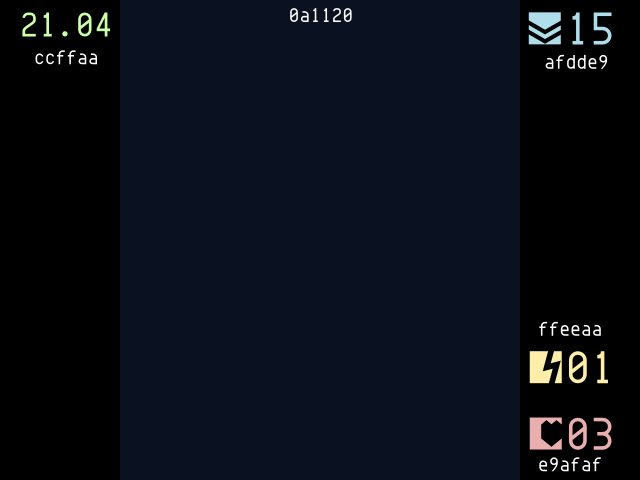
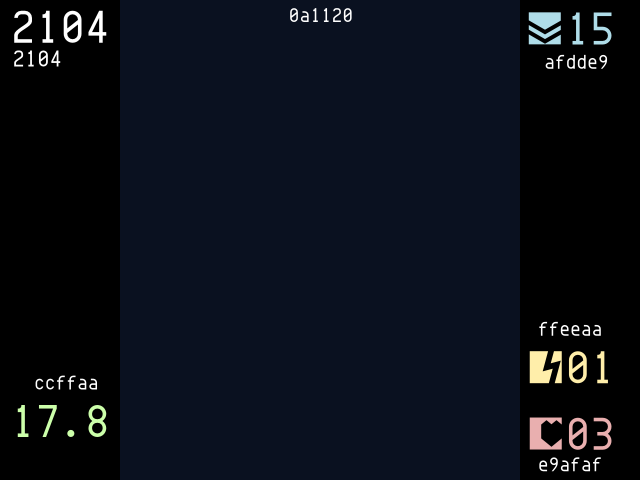
updating to 0.9

Changed region(s): [[0.0, 0.0, 0.1875, 0.1562], [0.0312, 0.8438, 0.1875, 0.9062], [0.0312, 0.7812, 0.1562, 0.8125]]

diff --git a/shutengu.cpp b/shutengu.cpp
@@ -5,9 +5,9 @@
 #include "SDL/SDL_ttf.h"
 #include <stdio.h>
 #include <stdlib.h>
+#include <time.h>
 #include <string>
 #include <sstream>
-#include <time.h>
 
 //screen attributes
 const int SCREEN_WIDTH=640;
@@ -27,9 +27,10 @@ SDL_Surface *background=NULL;
 SDL_Surface *boss=NULL;
 SDL_Surface *screen=NULL;
 SDL_Surface *menumsg=NULL;
+SDL_Surface *bullet=NULL;
 SDL_Surface *points=NULL;
 
-//the award-winning soundtrack
+//the award-winning soundtrawhile(SDL_PollEvent(&event)){ck
 Mix_Music *bgm=NULL;
 Mix_Chunk *gain=NULL;
 Mix_Chunk *bomb=NULL;
@@ -37,7 +38,8 @@ Mix_Chunk *bomb=NULL;
 //fonts and colours
 TTF_Font *menuFont=NULL;
 SDL_Color defaultColor={0,0,0};
-SDL_Color pointsColor={255,255,0};
+SDL_Color menubgColor={0xff,0xff,0xff};
+SDL_Color pointsColor={0xaf,0xdd,0xe9};
 
 //event handler
 SDL_Event event;
@@ -45,15 +47,23 @@ SDL_Event event;
 //lists ship properties
 class ship{
     private:
-		int x, y;			//position
 		int xVel, yVel;		//velocity
 
     public:
+		SDL_Rect hitbox;
 		ship();				//initializes
 		void handle_input();//handles keyboard controls for the ship
 		void move();		//handles motion
 		void show();		//renders ship
 };
+
+struct bulletData{
+	SDL_Rect hitbox;
+	int xVel;
+	int yVel;
+};
+
+bulletData b[5];
 
 //lists timer properties
 class Timer{
@@ -108,11 +118,15 @@ bool init(){
 
 //initializes most game assets
 bool prepAssets(){
+
+    int i;
+
     //load images or return false if error
     menu=IMG_Load("img/menu.png");
     theship=IMG_Load("img/gameship.png");
     background=IMG_Load("img/background.png");
     boss=IMG_Load("img/boss.png");
+    bullet=IMG_Load("img/bullet.png");
     if((menu==NULL)||(theship==NULL)||(background==NULL)||(boss==NULL)) return false;
 
 	//load audio or return false if error
@@ -122,8 +136,16 @@ bool prepAssets(){
 	if((bgm==NULL)||(gain==NULL)||(bomb==NULL)) return false;
 
 	//open fonts or return false if error
-	menuFont=TTF_OpenFont("envy.ttf",16);
+	menuFont=TTF_OpenFont("envy.ttf",24);
 	if((menuFont==NULL)) return false;
+
+    for (i=0;i<5;i++)
+    {
+        b[i].hitbox.x=rand()%420+120;
+		b[i].hitbox.h=5;
+		b[i].hitbox.w=5;
+		b[i].hitbox.y=0;
+    }
 
     //all is well
     return true;
@@ -138,7 +160,7 @@ void cleanUp(){
     SDL_FreeSurface(boss);
     SDL_FreeSurface(menumsg);
     SDL_FreeSurface(screen);
-    SDL_FreeSurface(points);
+    SDL_FreeSurface(bullet);
 
 	//free all audio
 	Mix_FreeMusic(bgm);
@@ -179,10 +201,54 @@ bool newBGM(){
 	return true;
 }
 
+//checks collision
+bool isCol(SDL_Rect rectA,SDL_Rect rectB){
+	int leftA, leftB;
+    int rightA, rightB;
+    int topA, topB;
+    int bottomA, bottomB;
+
+    leftA=rectA.x;
+    rightA=rectA.x+rectA.w;
+    topA=rectA.y;
+    bottomA=rectA.y+rectA.h;
+
+    leftB=rectB.x;
+    rightB=rectB.x+rectB.w;
+    topB=rectB.y;
+    bottomB=rectB.y+rectB.h;
+
+    //If any of the sides from A are outside of B
+    if( bottomA <= topB )
+    {
+        return false;
+    }
+
+    if( topA >= bottomB )
+    {
+        return false;
+    }
+
+    if( rightA <= leftB )
+    {
+        return false;
+    }
+
+    if( leftA >= rightB )
+    {
+        return false;
+    }
+
+    //If none of the sides from A are outside B
+    return true;
+}
+
 //initializes ship's properties
 ship::ship(){
-    x = 300;		//ship's initial position
-    y = 400;
+	hitbox.x=300;
+	hitbox.y=400;
+	hitbox.h=SHIP_HEIGHT;
+	hitbox.w=SHIP_WIDTH;
     xVel = 0;		//ship's initial velocity
     yVel = 0;		//of course it's zero
 }
@@ -213,17 +279,17 @@ void ship::handle_input(){
 //controls ship movement
 void ship::move(){
     //horizontal motion: stop the ship if out of bounds
-    x+=xVel;
-    if((x<120)||(x+SHIP_WIDTH>520)) x-=xVel;
+    hitbox.x+=xVel;
+    if((hitbox.x<120)||(hitbox.x+SHIP_WIDTH>520)) hitbox.x-=xVel;
 
     //vertical motion: stop the ship if out of bounds
-    y+=yVel;
-    if((y<0)||(y+SHIP_HEIGHT>SCREEN_HEIGHT)) y-=yVel;
+    hitbox.y+=yVel;
+    if((hitbox.y<0)||(hitbox.y+SHIP_HEIGHT>SCREEN_HEIGHT)) hitbox.y-=yVel;
 }
 
 //renders the ship
 void ship::show(){
-    printb( x, y, theship, screen );
+    printb( hitbox.x, hitbox.y, theship, screen );
 }
 
 //init timer properties
@@ -291,82 +357,146 @@ bool Timer::isPaused(){
 }
 
 int main(int argc,char* args[]){
-	FILE *fptr;
-	char msg[100];
-	if ((fptr=fopen("text/swkey.txt","r"))!=NULL){
-		if (fgets(msg,100,fptr)==NULL){
-			printf("error");
-		}
-		fclose(fptr);
-	}
-	menumsg=TTF_RenderText_Solid(menuFont,"asdasdsaasdsaads",defaultColor);
-
+    srand(time(NULL));
 	//setup
-    bool quit = false;		//maintains program loop
+	bool quitMenu=false;	//maintains menu loop
+    bool quitGame=false;	//maintains game loop
     ship myship;			//user-controlled ship
 	Timer fps;				//controls frame rate
 	Timer wave;				//time until next wave
-	Timer score;			//the score counted with time
+	Timer scoreT;
     if(init()==false) return 1;
     if(prepAssets()==false) return 1;
 	if(Mix_PlayMusic(bgm,-1)==-1) return 1;
-	fps.start();
+
+	//read and display the string of appropriate language
+	FILE *fptr;
+	char strFile[25];
+	if((fptr=fopen("text/gr.txt","r"))!=NULL){
+		if(fgets(strFile,25,fptr)==NULL) return 1;
+	}
+	fclose(fptr);
+	menumsg=TTF_RenderText_Shaded(menuFont,strFile,defaultColor,menubgColor);
+
+	//menu runs here
+	while(quitMenu==false){
+		//display menu
+        printb((SCREEN_WIDTH-menumsg->w)/2,400,menumsg,menu);
+        printb(0,0,menu,screen);
+
+		//menu-only key controls
+		while(SDL_PollEvent(&event)){
+            if(event.type==SDL_KEYDOWN){
+                switch( event.key.keysym.sym ){
+                    case SDLK_RETURN: quitMenu=true; break;
+                    case SDLK_ESCAPE:
+						quitMenu=true;
+						quitGame=true; break;
+                }
+            }
+
+			//if the window gets X'd
+			if(event.type==SDL_QUIT){
+					quitMenu=true;			//quit the menu
+					quitGame=true;			//skip the game
+			}
+		}
+
+		//refresh the screen
+        if(SDL_Flip(screen)==-1) return 1;
+	}
+
 	wave.start();
-	score.start();
+	scoreT.start();
+	newBGM();
 
     //game runs here
-    while(quit==false){
-    	//MENU HERE
-
+    while(quitGame==false){
+		fps.start();
 		//once wave time is up: level up and restart wave timer
-        if (wave.getTicks()>5000){
-			wave.stop();
+        if (wave.getTicks()>10000){
 			newBGM();
-			//WAVE CHANGE HERE
+			//WAVE CHANGE/TIMER RESTART HERE
 			wave.start();
 		}
 
-        //while there's science to do
-        while(SDL_PollEvent(&event)){
+		//while there's science to do
+		while(SDL_PollEvent(&event)){
 			//ship controls
-            myship.handle_input();
+			myship.handle_input();
 
-            //other controls
-            if(event.type==SDL_KEYDOWN){
+			//other controls
+			if(event.type==SDL_KEYDOWN){
 				switch( event.key.keysym.sym ){
-					case SDLK_ESCAPE:
-						quit=true; break;
+					case SDLK_ESCAPE: quitGame=true; break;
 					case SDLK_x:
+						//BOMB HERE
 						if(Mix_PlayChannel(-1,bomb,0)==-1) return 1; break;
-					case SDLK_z:
-						menu=NULL;
 				}
 			}
 
 			//if the window gets X'd
-            if( event.type == SDL_QUIT ){
-                quit = true;
-            }
-        }
+			if( event.type == SDL_QUIT ){
+				quitGame = true;
+			}
+		}
 
-        //update ship's position
-        myship.move();
-        //Fill the screen white
-        SDL_FillRect( screen, &screen->clip_rect, SDL_MapRGB( screen->format, 0xFF, 0xFF, 0xFF ) );
-        printb(0,0,background,screen);
-        printb(0,0,boss,screen);
-        myship.show();
-        printb(0,0,menu,screen);
-        printb(200,200,menumsg,menu);
-        //THE WHOLE SCORE PRINTER. PUT IN GAME
-        //timer's time as a string
+		if(isCol(myship.hitbox,b[0].hitbox)) quitGame=true;
+		if(isCol(myship.hitbox,b[1].hitbox)) quitGame=true;
+		if(isCol(myship.hitbox,b[2].hitbox)) quitGame=true;
+		if(isCol(myship.hitbox,b[3].hitbox)) quitGame=true;
+		if(isCol(myship.hitbox,b[4].hitbox)) quitGame=true;
+		if(b[0].hitbox.x>520) b[0].hitbox.x=120;
+		if(b[0].hitbox.y>480) b[0].hitbox.y=0;
+		if(b[1].hitbox.x>520) b[1].hitbox.x=120;
+		if(b[1].hitbox.y>480) b[1].hitbox.y=0;
+		if(b[2].hitbox.x>520) b[2].hitbox.x=120;
+		if(b[2].hitbox.y>480) b[2].hitbox.y=0;
+		if(b[3].hitbox.x>520) b[3].hitbox.x=120;
+		if(b[3].hitbox.y>480) b[3].hitbox.y=0;
+		if(b[4].hitbox.x>520) b[4].hitbox.x=120;
+		if(b[4].hitbox.y>480) b[4].hitbox.y=0;
+
+        //update screen data
+        myship.move();							//update ship's position
+        printb(0,0,background,screen);			//print background
+//        printb(0,5,boss,screen);				//print boss
+		myship.show();							//print position to screen
+
+		b[0].xVel=3;
+		b[0].yVel=1;
+		b[0].hitbox.y+=b[0].yVel;
+		b[0].hitbox.x+=b[0].xVel;
+		printb(b[0].hitbox.x,b[0].hitbox.y,bullet,screen,NULL);
+
+		b[1].xVel=1;
+		b[1].yVel=5;
+		b[1].hitbox.y+=b[1].yVel;
+		b[1].hitbox.x+=b[1].xVel;
+		printb(b[1].hitbox.x,b[1].hitbox.y,bullet,screen,NULL);
+
+		b[2].xVel=4;
+		b[2].yVel=2;
+		b[2].hitbox.y+=b[2].yVel;
+		b[2].hitbox.x+=b[2].xVel;
+		printb(b[2].hitbox.x,b[2].hitbox.y,bullet,screen,NULL);
+
+		b[3].xVel=6;
+		b[3].yVel=1;
+		b[3].hitbox.y+=b[3].yVel;
+		b[3].hitbox.x+=b[3].xVel;
+		printb(b[3].hitbox.x,b[3].hitbox.y,bullet,screen,NULL);
+
+		b[4].xVel=10;
+		b[4].yVel=2;
+		b[4].hitbox.y+=b[4].yVel;
+		b[4].hitbox.x+=b[4].xVel;
+		printb(b[4].hitbox.x,b[4].hitbox.y,bullet,screen,NULL);
+
         std::stringstream time;
-        //converts timer's time to string
-        time << "Score: " << score.getTicks()/10;
-        //render time surface
-        points=TTF_RenderText_Solid(menuFont, time.str().c_str(), pointsColor);
-        //apply time surface
-        printb(0,300,points,screen);
+        time<<scoreT.getTicks()/250;
+        points=TTF_RenderText_Shaded(menuFont,time.str().c_str(),pointsColor,{0,0,0});
+        printb(10,15,points,screen);
 
         //refresh the screen
         if(SDL_Flip(screen)==-1) return 1;
